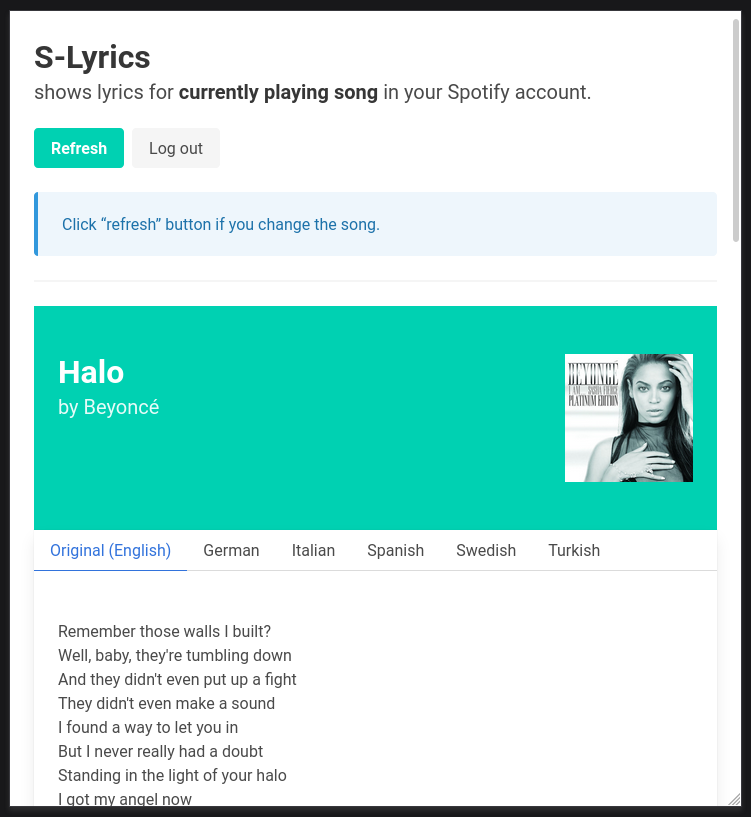
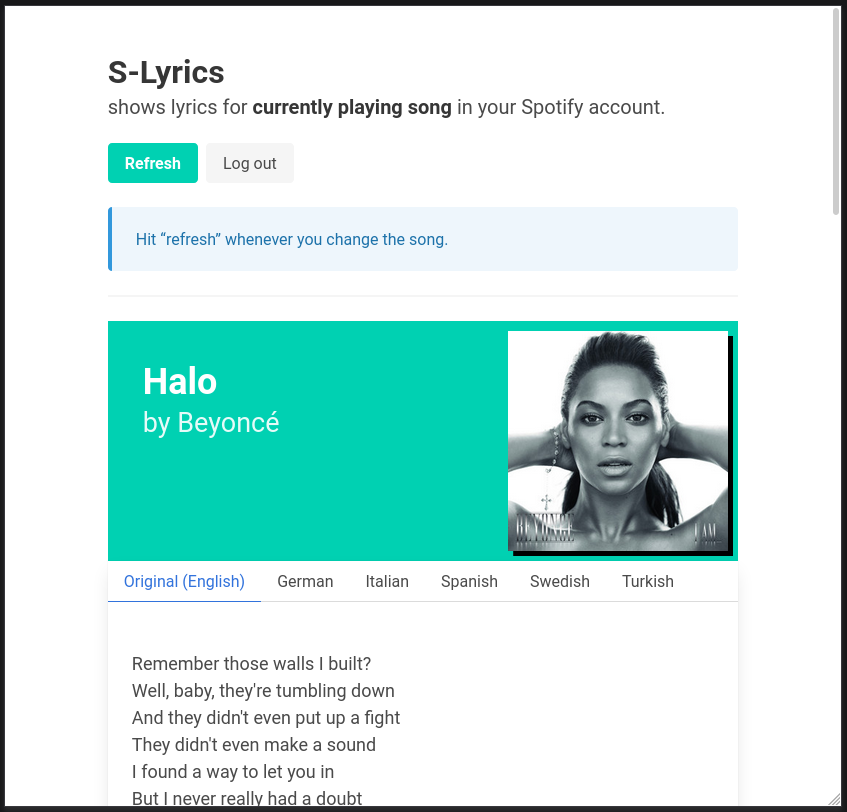
Update info-about-refresh

Changed region(s): [[0.0, 0.0, 1.0, 1.0]]

diff --git a/views/partials/user/header_partial.html b/views/partials/user/header_partial.html
@@ -19,11 +19,9 @@
 				</a>
 			</div>
 			<article id="info-about-refresh" class="message is-info">
-			  <div class="message-body">
-			    <p>
-			    	Click “refresh” button if you change the song.
-			    </p>    
-			  </div>
+				<div class="message-body">
+					<p>Hit “refresh” whenever you change the song.</p>    
+				</div>
 			</article>
 		</header>
 		<hr>
